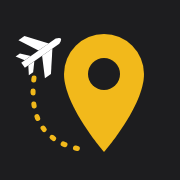
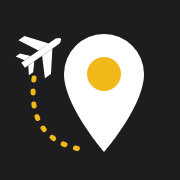
アイコンのピンを白に(iPhone のダークのホーム画面で暗くされないように)

Changed region(s): [[0.3333, 0.1667, 0.8056, 0.8611]]

diff --git a/index.html b/index.html
@@ -6,8 +6,8 @@
 <meta name="robots" content="noindex, nofollow">
 <title>トラベラー</title>
 <!-- ホーム画面のアイコンと名前(元の絵は icon.svg。直したら 180×180 の PNG に書き出す) -->
-<link rel="apple-touch-icon" href="apple-touch-icon.png">
-<link rel="icon" type="image/png" href="apple-touch-icon.png">
+<link rel="apple-touch-icon" href="apple-touch-icon.png?v=3">
+<link rel="icon" type="image/png" href="apple-touch-icon.png?v=3">
 <meta name="apple-mobile-web-app-title" content="トラベラー">
 <meta name="theme-color" content="#1d1d1f">
 <link rel="manifest" href="manifest.json">

diff --git a/README.md b/README.md
@@ -48,7 +48,7 @@
 
 ## そのほか
 
-- ホーム画面のアイコンは `apple-touch-icon.png`(180×180。元の絵は `icon.svg`、黒地に TakuVLOG の黄色いピンと白い飛行機。iPhone のダークのホーム画面で明るい地は黒に変えられるので、もともと黒地にしている)。名前は「トラベラー」(`<title>`・`apple-mobile-web-app-title`・`manifest.json` の3か所。iPhone はページの名前を使うことがある)。変えた時は、iPhone のホーム画面のアイコンを消して Safari から「ホーム画面に追加」し直さないと古いまま
+- ホーム画面のアイコンは `apple-touch-icon.png`(180×180。元の絵は `icon.svg`、黒地に白いピン(真ん中が TakuVLOG の黄色)・白い飛行機・黄色い点線。iPhone のダークのホーム画面では大きな色の面が暗くされ、白と細い色は残るので、この形にしている。絵を変えたら index.html の `?v=` の数字も上げる(Safari が前の絵を覚えているため))。名前は「トラベラー」(`<title>`・`apple-mobile-web-app-title`・`manifest.json` の3か所。iPhone はページの名前を使うことがある)。変えた時は、iPhone のホーム画面のアイコンを消して Safari から「ホーム画面に追加」し直さないと古いまま
 
 - AutoPrep(`~/Movies/AutoPrep/TELOP/place_cards.py`)が Vlog の場所の札をつくる時に `data/` の下の JSON を全部(サブフォルダも)読んでいる。`items` の `name`・`kr`・`googleQuery`・`time` の形は変えない
 
